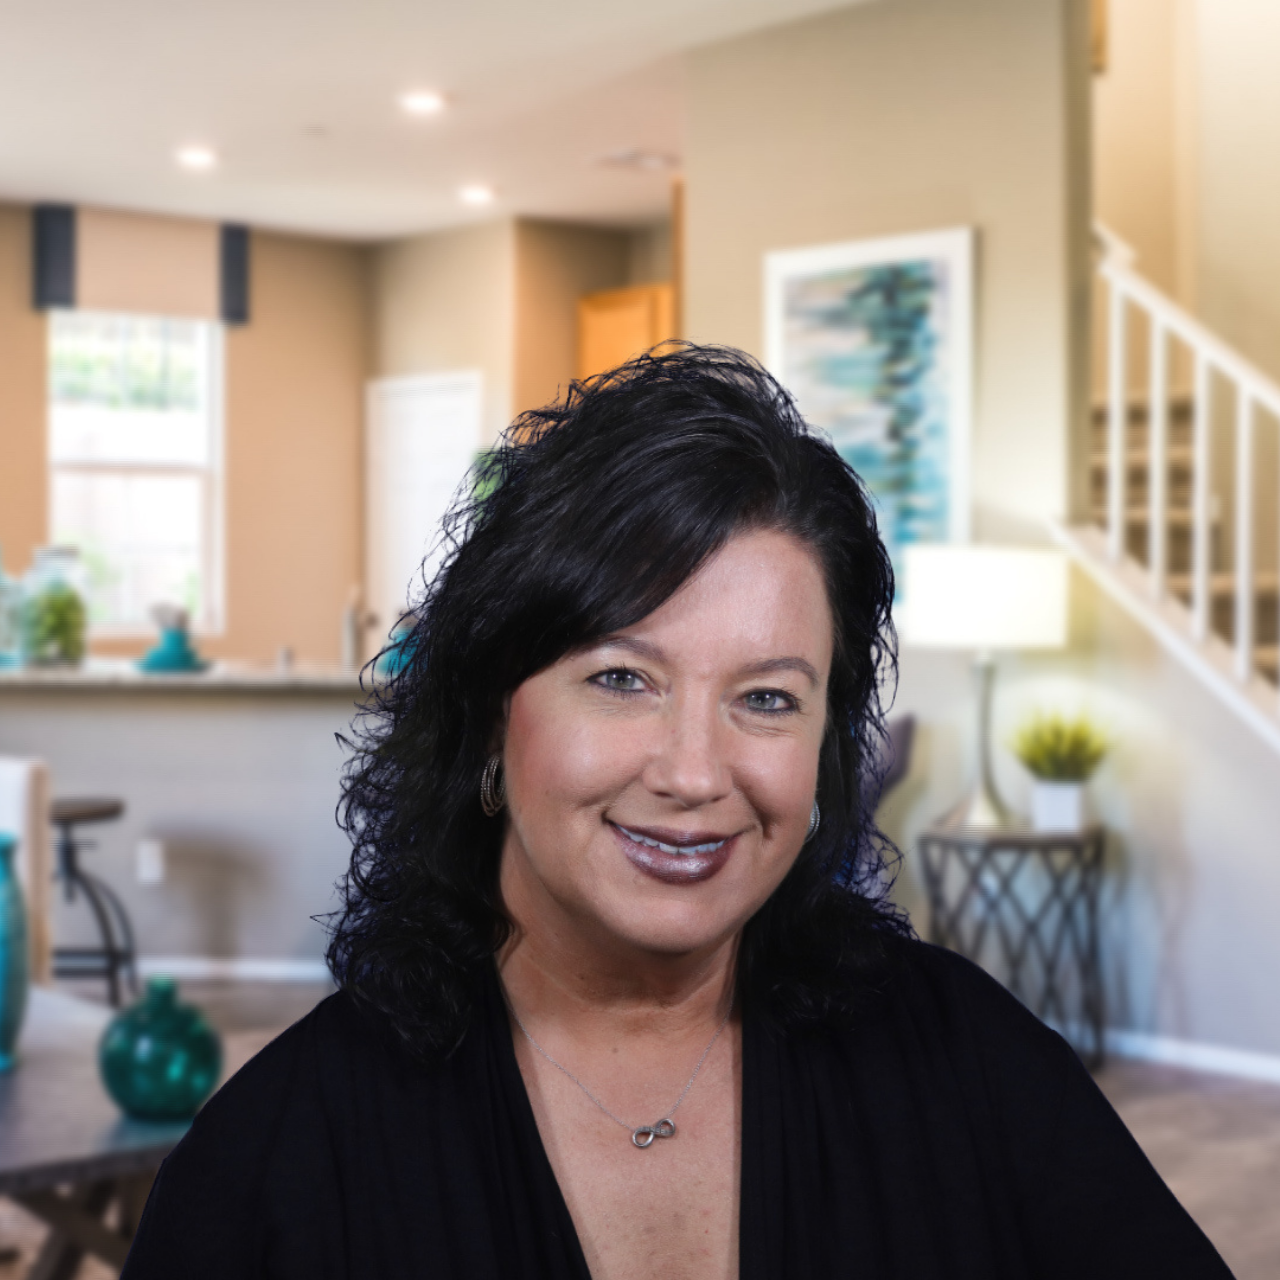
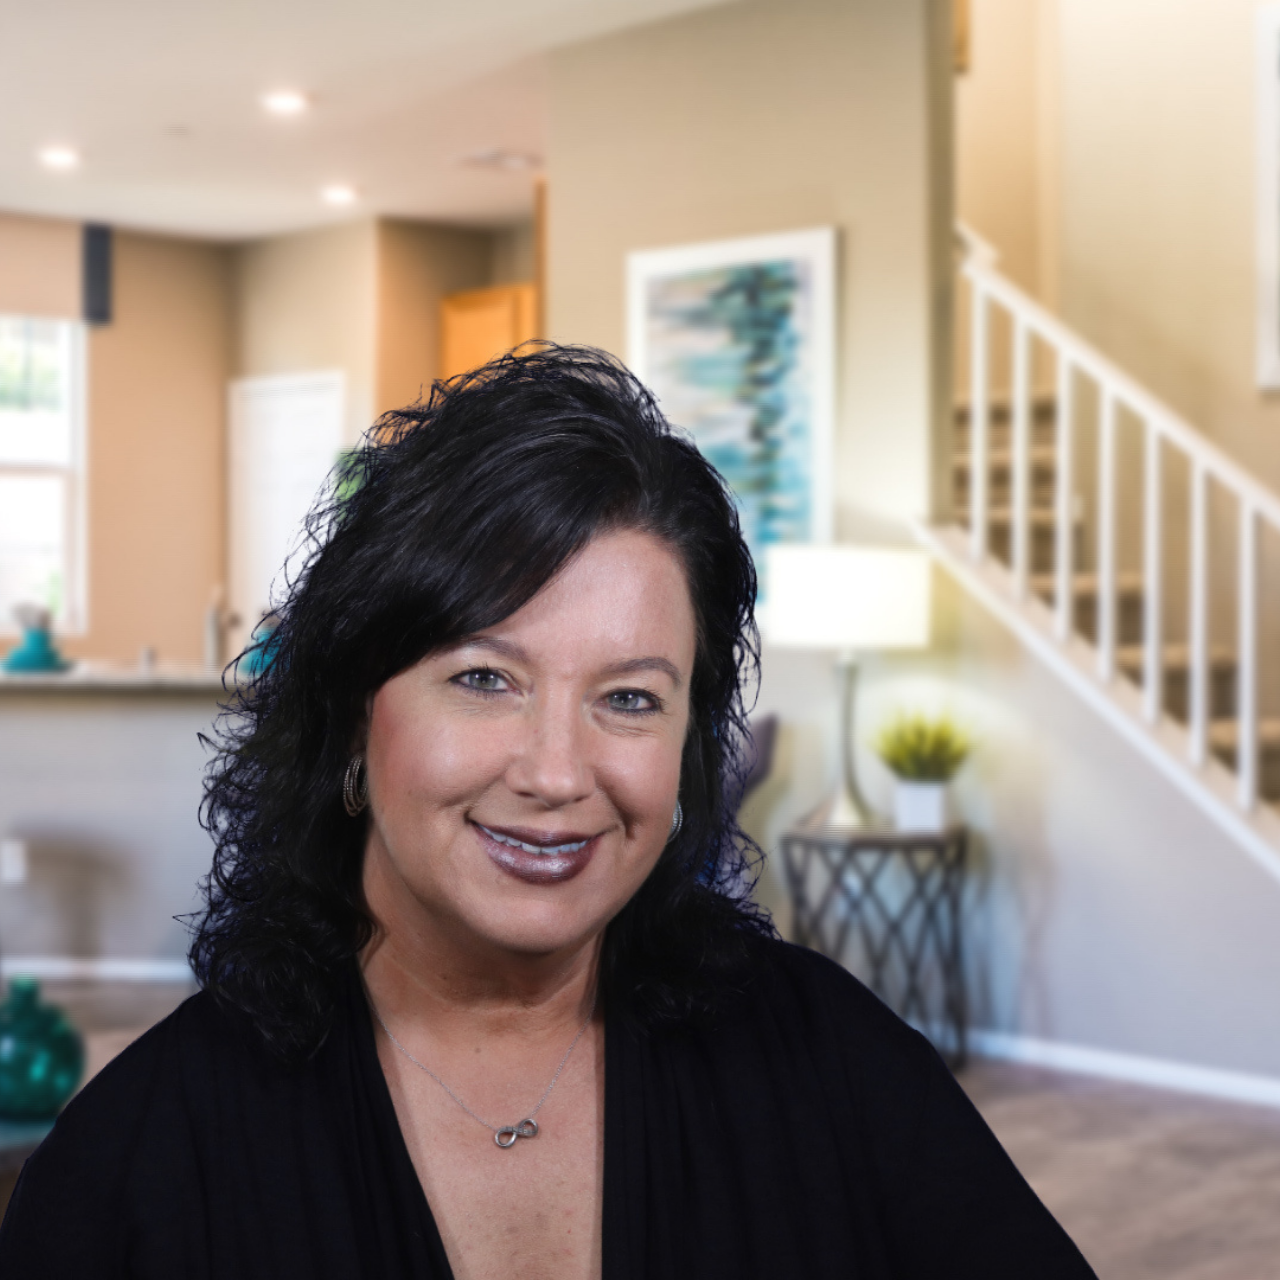
added bulma and updated portfolio

diff --git a/index.html b/index.html
@@ -7,12 +7,21 @@
     <title>Jamie Williams' Portfolio</title>
     <link rel="stylesheet" href="https://cdn.jsdelivr.net/npm/bulma@0.9.3/css/bulma.min.css"/>
     <link rel="stylesheet" href="./assets/css/style.css" />
+    <style>
+        .hero {
+            background-image: url("./assets/images/background-image-project.png"); 
+            -webkit-background-size: cover;
+            -moz-background-size: cover;
+            -o-background-size: cover;
+            background-size: cover;
+        }
+    </style>
 </head>
 <body>
     <!-- navigation -->
     <header>
         <h1>
-            <a href="/"><strong>Jamie Williams' Portfolio</strong></a>
+            <a href=""><strong>Jamie Williams' Portfolio</strong></a>
         </h1>
         <nav>
             <!-- Unordered list element -->
@@ -37,22 +46,25 @@
     <!-- end navigation -->
     
     <!-- hero section starts  -->
+<section class="hero">
     <div class="columns">
-        <div class="hero">
-            <div class="column">
-                <h1 class="section-title section-title-intro">
+        <div class="column">
+            <h1 class="section-title section-title-intro">
                 <br>
                 <strong>Jamie Williams</strong>
-                </h1>
-                <p class="section-subtitle section-subtitle-intro">Web Developer</p> 
-            </div>
-            <div class="column">
-                <div class="hero-image">
-                    <img src="./assets/images/jamie-headshot.png" alt="Headshot of Jamie smiling." class="intro-image">
-                </div>
-            </div>
+            </h1>
+            <p class="section-subtitle section-subtitle-intro">Web Developer</p> 
         </div>
+        
+        <div class="column">
+            <div class="hero-image">
+                <figure class="image is-128by128">
+                    <img class="intro-image is-rounded is-centered" src="./assets/images/jamie-headshot.png" alt="Headshot of Jamie smiling.">
+                </figure>        
+            </div>
+        </div>        
     </div>
+</section>
     <!-- end introduction -->
 
     <!-- About Me -->
@@ -69,13 +81,17 @@
         <div class="column is-4">
             <div class="about-me-image is-centered">
                 <figure class="image is-64by64">
-                    <img class="is-rounded is-centered" src="./assets/images/jamie-about-me-resized.png">
+                    <img class="is-rounded is-centered" src="./assets/images/jamie-about-me-resized.png" alt="Headshot of Jamie.">
                   </figure>
             </div>
         </div>
         <div class="column is-8">
             <div class="about-me-body">
-                <p>Combining my love for design and technology with my natural creative personality, web development is a perfect fit. In 2014, I started a non-profit organization to donate teddy bears to children in the hospital and needed a website. I decided to learn how to build a website on my own and discovered then my passion for web development. Several years later, I built a website to house a travel blog for my cross-country travels. The following year, I created a website to turn my then physical therapy career into a way of helping the elderly stay safe at home and reduce their fall risk. </p>
+                <p>Combining my love for design and technology with my organizational skills and attention to detail, web development is a perfect fit. 
+                    In 2014, I started a non-profit organization to donate teddy bears to children in the hospital and needed a website. 
+                    I decided to learn how to build a website on my own and discovered then my passion for web development. Several years later, 
+                    I built a website to house a travel blog for my cross-country travels. The following year, I created a website to turn my then physical 
+                    therapy career into a way of helping the elderly stay safe at home and reduce their fall risk. </p>
                 <br>
                 <p>I am hard-working, reliable, and pride myself on my organizational and communicational skills. I am very goal-oriented and excel in working with a team to achieve a successful outcome while meeting deadlines.</p>
                 <br>

diff --git a/assets/css/style.css b/assets/css/style.css
@@ -101,7 +101,7 @@ header nav ul li a:hover {
 }
 
 .section-subtitle {
-    margin: 0;
+    margin: 50px;
     font-size: smaller;
 }
 
@@ -114,32 +114,14 @@ header nav ul li a:hover {
 }
 
 .hero {
-    background-image: url("./assets/images/background-image-project.png") no-repeat center center fixed; 
-    -webkit-background-size: cover;
-    -moz-background-size: cover;
-    -o-background-size: cover;
-    background-size: cover;
+   
     text-shadow: 0 0 10px rgba(0, 0, 0, 0.5);
     font-family: Arial, Helvetica, sans-serif;
     text-align: right;
 }
 
-.hero-intro {
-    width: 35%;
-    text-align: right;
-    margin: 3.5%;
-    color: #fff;
-    font-size: 18px;
-    line-height: 1.2;
-}
-
 .hero-image {
-    border: 3px solid var(--secondary-color);
-    background-color: var(--primary-color);
-    padding: 20px;
-    margin: 3.5%;
-    box-shadow: 0 0 10px rgba(0, 0, 0, 0.5);
-    border-radius: 15px;
+    max-width: 75%;
 }
 
 .about-me-body {
@@ -149,7 +131,6 @@ header nav ul li a:hover {
 }
 
 .about-me-image {
-    border-radius: 15px;
     max-width: 60%;
     margin-left: 100px;
     margin-top: 50px;
